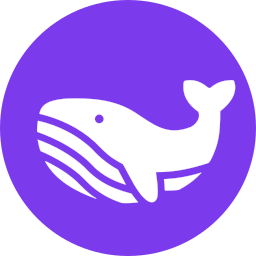
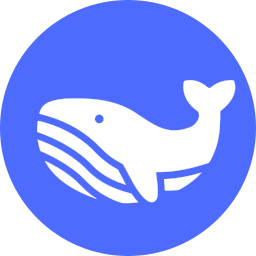
Use DeepSeek's brand blue (#4D6BFE) instead of purple for the whale badge

diff --git a/README.md b/README.md
@@ -5,7 +5,7 @@
 *Unofficial, community-built extension — not affiliated with or endorsed by DeepSeek.*
 
 <p align="center">
-  <a href="https://marketplace.visualstudio.com/items?itemName=irsh.deepseek-harness-dsh-vscode"><img src="https://img.shields.io/visual-studio-marketplace/v/irsh.deepseek-harness-dsh-vscode?label=Marketplace&color=7C3AED" alt="Marketplace version"></a>
+  <a href="https://marketplace.visualstudio.com/items?itemName=irsh.deepseek-harness-dsh-vscode"><img src="https://img.shields.io/visual-studio-marketplace/v/irsh.deepseek-harness-dsh-vscode?label=Marketplace&color=4D6BFE" alt="Marketplace version"></a>
 </p>
 
 Install from the Marketplace link above, or paste `vscode:extension/irsh.deepseek-harness-dsh-vscode` into your browser's address bar to open it directly in VS Code.
